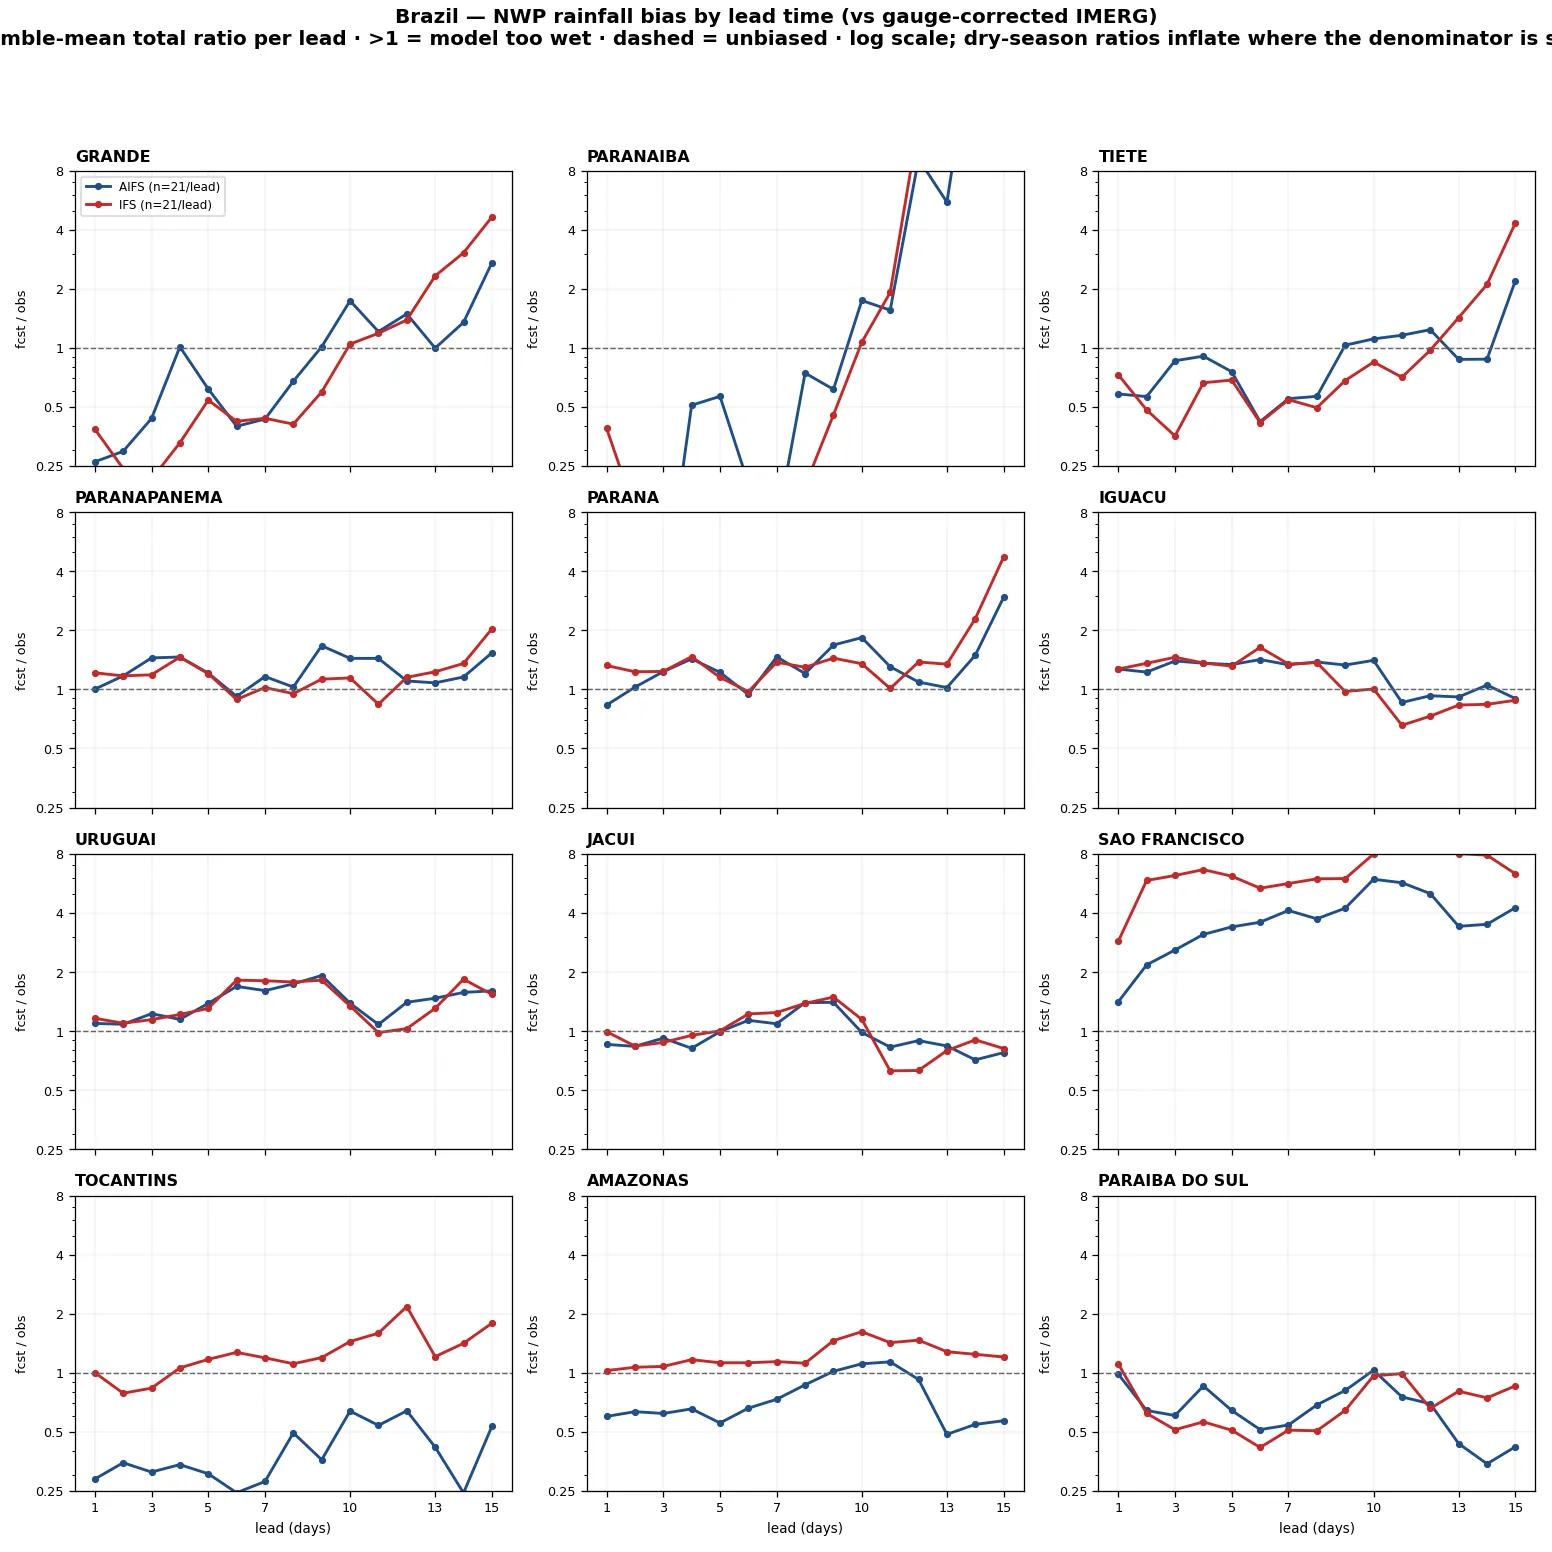
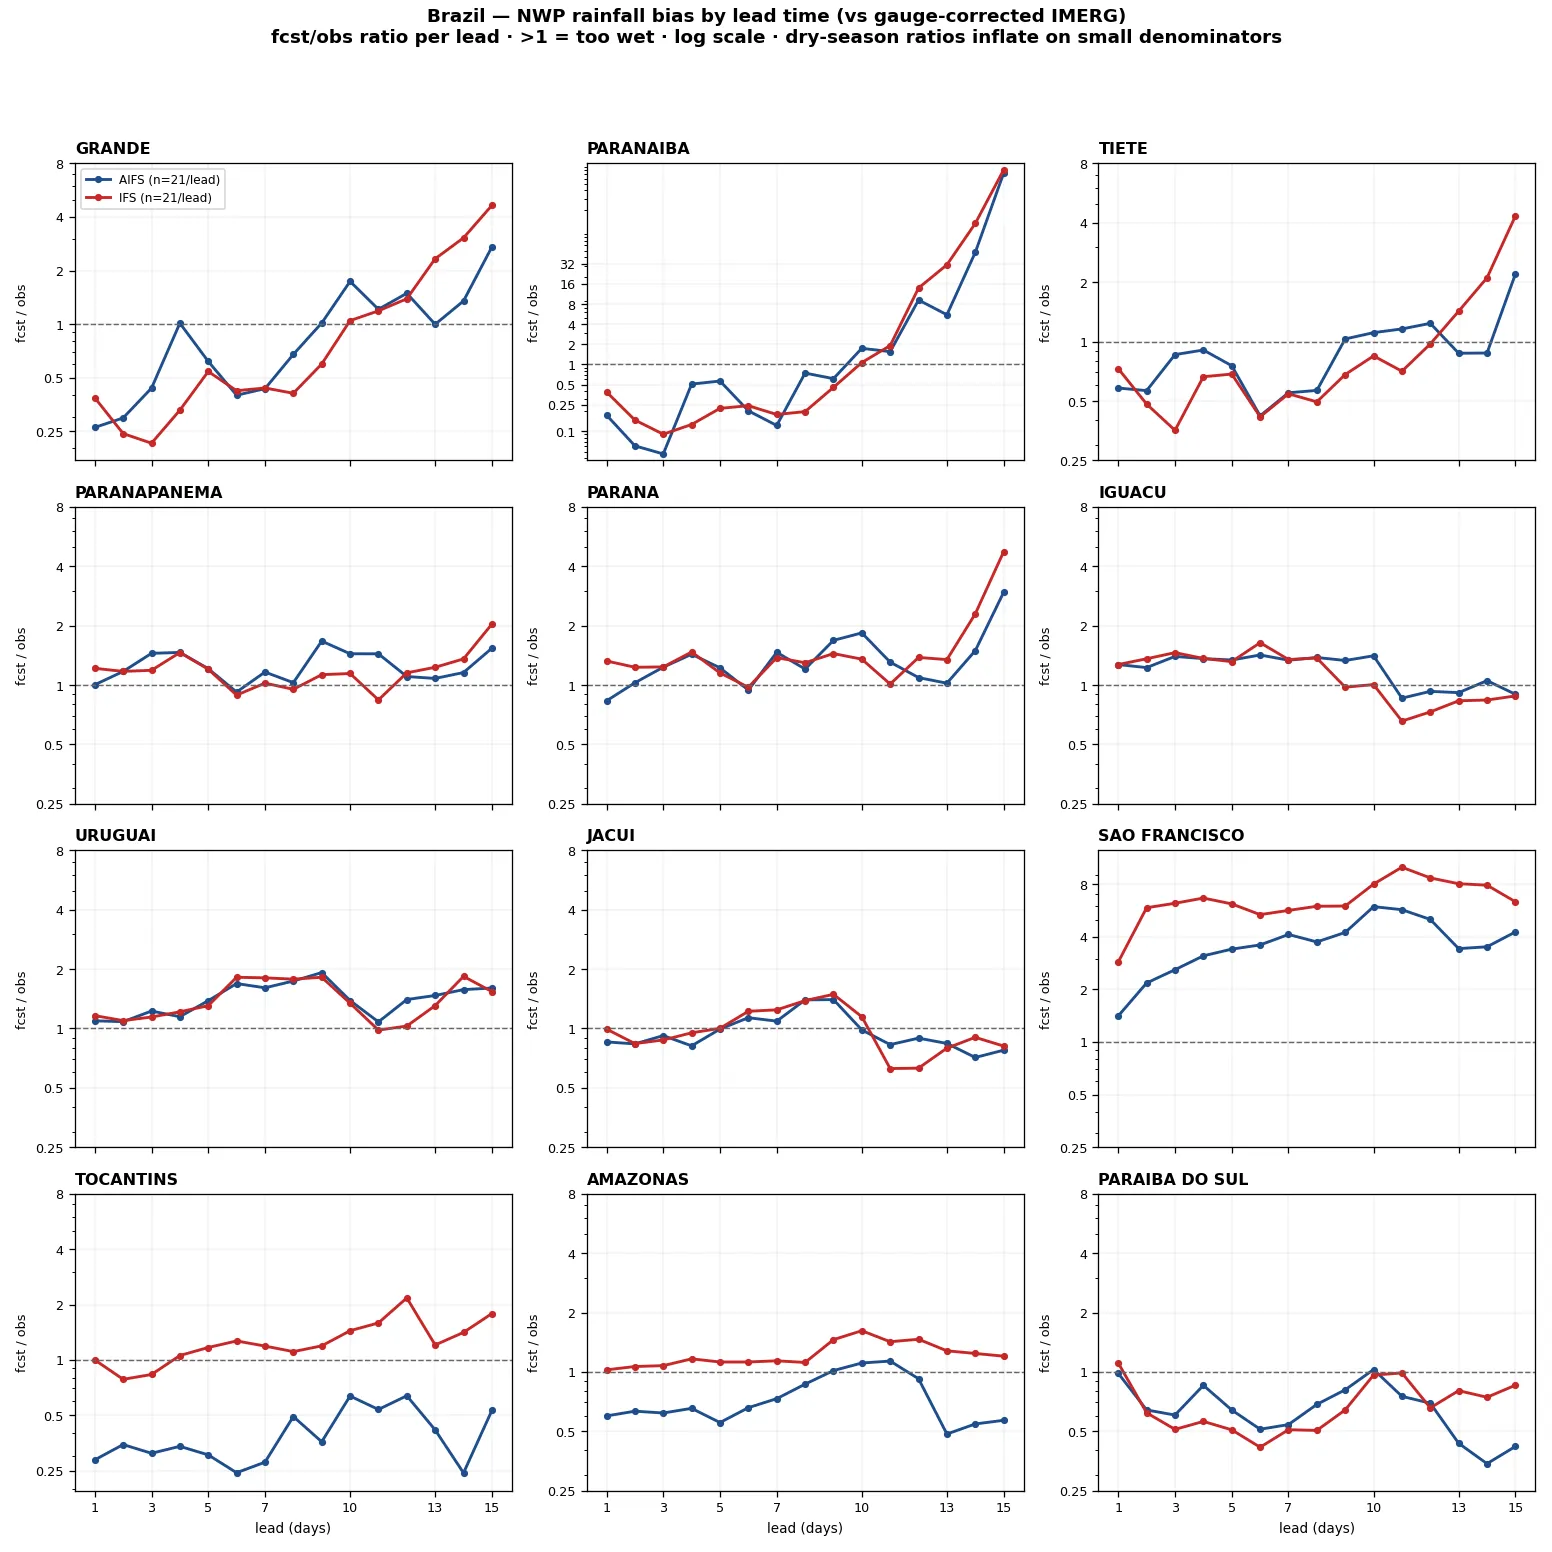
Charts: bias-by-lead dynamic log y-limits + tighter title; Brazil forecast map mm anomaly panel + wrapped title

diff --git a/scripts/sst/brazil_rain_chart.py b/scripts/sst/brazil_rain_chart.py
@@ -60,6 +60,12 @@ PCT_COLS = ["#7a4a12", "#a8702a", "#cd9d57", "#e8cf9e", "#f6f5f0",
 PCT_CMAP = ListedColormap(PCT_COLS)
 PCT_CMAP.set_over("#3f1f66")
 LEV_PCT = [0, 25, 50, 75, 90, 110, 125, 150, 200, 300, 1000]
+ANOM_COLS = ["#6a3b0f", "#a8702a", "#d3aa66", "#eed9ac", "#f6f5f0",
+             "#cfe6f0", "#8fc4de", "#4292c6", "#1c5fa8", "#5b3f9e"]
+ANOM_CMAP = ListedColormap(ANOM_COLS)
+ANOM_CMAP.set_over("#3f1f66")
+ANOM_CMAP.set_under("#452508")
+LEV_ANOM = [-300, -150, -75, -30, -10, 10, 30, 75, 150, 300, 600]
 EXT = [-75.5, -33.5, -34.5, 6.0]
 BANDS = [(1, 3), (4, 7), (8, 15)]
 
@@ -233,8 +239,7 @@ def forecast_map(verif):
     ii = np.array([int(np.argmin(np.abs(flats - la))) for la in lats])
     jj = np.array([int(np.argmin(np.abs(flons - lo))) for lo in lons])
     clm = (clim_sum * Ffine)[np.ix_(ii, jj)]     # gauge correction at eval
-    with np.errstate(divide="ignore", invalid="ignore"):
-        pct = np.where(clm > 2.0, 100.0 * blended / clm, np.nan)
+    anom = blended - clm                      # mm vs the 25-yr corrected norm
 
     gj = json.loads(BASINS_GJ.read_text())
     rings = {ft["properties"]["basin"]: ft["geometry"]["coordinates"]
@@ -245,9 +250,8 @@ def forecast_map(verif):
     for k, (field, cmap, lev, ttl, msk_ocean) in enumerate([
             (blended, RAIN_CMAP, LEV_15D,
              f"Skill-corrected most-likely total (mm) · {span}", False),
-            (pct, PCT_CMAP, LEV_PCT,
-             f"Percent of normal (IMERG {clim_years} climatology, "
-             "gauge-corrected)", True)]):
+            (anom, ANOM_CMAP, LEV_ANOM,
+             f"Anomaly (mm vs {clim_years} corrected climatology)", True)]):
         ax = fig.add_axes([0.035 + k * 0.485, 0.09, 0.45, 0.80],
                           projection=ccrs.PlateCarree())
         nrm = BoundaryNorm(lev, cmap.N)
@@ -270,15 +274,16 @@ def forecast_map(verif):
         ax.set_extent(EXT, ccrs.PlateCarree())
         ax.set_title(ttl, fontsize=11, fontweight="bold", loc="left")
         cax = fig.add_axes([0.06 + k * 0.485, 0.045, 0.4, 0.016])
-        cb = fig.colorbar(pm, cax=cax, orientation="horizontal", extend="max")
-        cb.set_ticks(lev[1:-1] if cmap is PCT_CMAP else lev[:-1])
+        ext = "both" if cmap is ANOM_CMAP else "max"
+        cb = fig.colorbar(pm, cax=cax, orientation="horizontal", extend=ext)
+        cb.set_ticks(lev[1:-1] if cmap is ANOM_CMAP else lev[:-1])
         cb.ax.tick_params(labelsize=7.5)
     inits_s = " · ".join(f"{m.upper()} {d} {h}Z"
                          for m, (d, h) in latest.items())
-    fig.suptitle(f"Brazil — next {len(common)} days rainfall, blended "
-                 f"AIFS-ENS + IFS-ENS ensemble means, per-basin/lead bias "
-                 f"factors from the corrected-IMERG verification · {inits_s}",
-                 fontsize=12, fontweight="bold", y=0.985)
+    fig.suptitle(f"Brazil — next {len(common)} days rainfall · blended "
+                 f"AIFS-ENS + IFS-ENS, measured per-basin/lead bias factors\n"
+                 f"verified against gauge-corrected IMERG · {inits_s}",
+                 fontsize=11.5, fontweight="bold", y=0.99)
     fig.savefig(SITE / "forecast_map.webp", dpi=115)
     plt.close(fig)
     print("wrote brazil_hydro/forecast_map.webp", flush=True)
